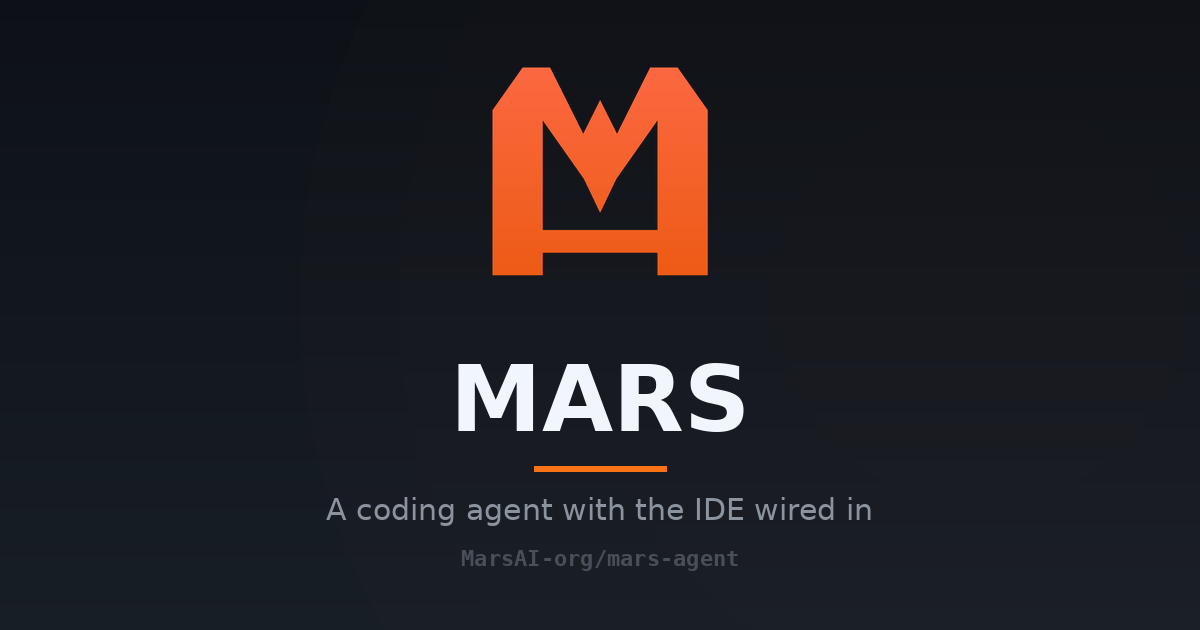
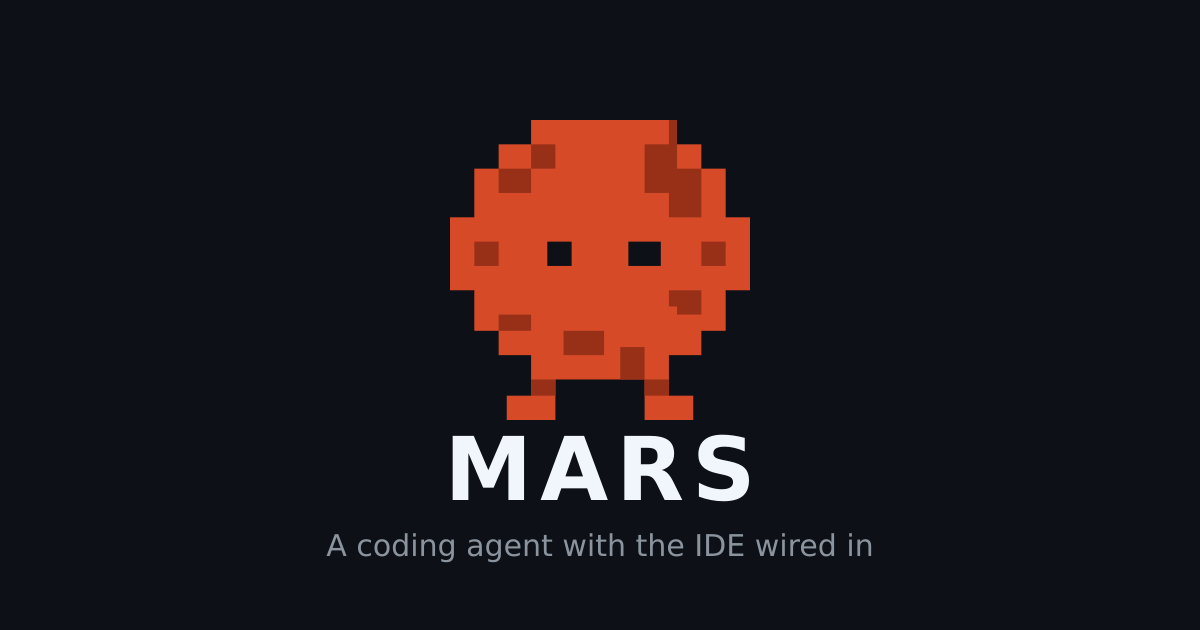
brand: replace the geometric crest with the pixel-art Mars mark (#43)
* brand: replace the geometric crest with the pixel-art Mars mark

The previous mark was a faceted "M" crest. The brand now uses a pixel-art
Mars: a round body with two eyes, legs, and two-tone shading.

- Trace the mark to a 37x37 vector grid so every edge stays axis-aligned and
  derived rasters can be rendered at any size without softening.
- Rebuild the README hero (1200x360) and the social card (1200x630) from the
  same grid, keeping the existing type and tagline.
- Regenerate the collab-web favicon ladder (16-512, .ico with 16/32/48
  entries) and the SVG favicon.
- Redraw the TUI welcome mark as a 12x12 half-block grid so the terminal
  banner matches the asset instead of showing a different silhouette.
- Update the artwork inventory and the TUI tests that pin the mark's rows.

* fix(tui): use a five-row mark on short terminals

The pixel-art mark is six rows tall, one more than the crest it replaced. On a
24-row terminal that extra row pushed the last setup-wizard menu item out of
the frame, which the short-terminal test catches.

Add a 10x10-sampled compact form of the same silhouette and select it below 30
rows, in both the string renderer and the native node tree.

---------

Changed region(s): [[0.2775, 0.0905, 0.74, 0.9048]]

diff --git a/packages/tui/src/setup/wizard-overlay.ts b/packages/tui/src/setup/wizard-overlay.ts
@@ -6,7 +6,7 @@ import { centerLine, padding } from "../utils";
 import { padToWidth } from "../render/utils";
 import { routeSgrMouseInput, type SgrMouseEvent } from "../mouse";
 import { APP_NAME } from "@marsai-org/utils";
-import { gradientLogo, logoNode, MARS_LOGO } from "../prompt/welcome";
+import { gradientLogo, logoNode, MARS_LOGO, MARS_LOGO_COMPACT } from "../prompt/welcome";
 import { theme } from "../theme/theme";
 import { col, node, span, text } from "../native/describe";
 import type { NativeNode, NativeUiEvent } from "../native/node";
@@ -21,6 +21,8 @@ type WizardPhase = "splash" | "transition" | "scene" | "outro" | "done";
 
 const SCENE_MARGIN_X = 4;
 const MIN_CONTENT_WIDTH = 20;
+/** Below this height the wizard switches to the five-row mark so menus keep their last row. */
+const SHORT_TERMINAL_ROWS = 30;
 /** Cross-dissolve duration from the splash into the first scene. */
 const SCENE_TRANSITION_MS = 420;
 
@@ -249,29 +251,33 @@ export class SetupWizardComponent implements Component, OverlayFocusOwner {
 		const title = active?.title ?? scene?.title ?? "Setup";
 		const subtitle = active?.subtitle;
 		const footer = sceneFooterHint();
-		return this.#nativeScene.get([this.#sceneIndex, this.scenes.length, active, title, subtitle, footer], () => {
-			const heading: NativeNode[] = [text([span(title, "strong")])];
-			if (subtitle) heading.push(text([span(subtitle, "muted")]));
-			return col(
-				[
-					col(
-						[
-							logoNode(MARS_LOGO, false),
-							text([span(APP_NAME, "accent strong")], { wrap: "none" }),
-							text([span(`Setup step ${this.#sceneIndex + 1} of ${this.scenes.length}`, "muted")], {
-								wrap: "none",
-							}),
-						],
-						{ align: "center" },
-					),
-					col(heading),
-					// Keyed by scene so a new scene's nodes never reuse the previous one's ids.
-					node("col", { grow: 1 }, active ? [active] : [], `body:${scene?.id ?? this.#sceneIndex}`),
-					col([text([span(footer, "dim")])], { align: "center" }),
-				],
-				{ gap: "md", grow: 1, role: "omp.setup.scene" },
-			);
-		});
+		const rows = Math.max(1, this.ctx.ui.terminal.rows);
+		return this.#nativeScene.get(
+			[this.#sceneIndex, this.scenes.length, active, title, subtitle, footer, rows],
+			() => {
+				const heading: NativeNode[] = [text([span(title, "strong")])];
+				if (subtitle) heading.push(text([span(subtitle, "muted")]));
+				return col(
+					[
+						col(
+							[
+								logoNode(rows < SHORT_TERMINAL_ROWS ? MARS_LOGO_COMPACT : MARS_LOGO, false),
+								text([span(APP_NAME, "accent strong")], { wrap: "none" }),
+								text([span(`Setup step ${this.#sceneIndex + 1} of ${this.scenes.length}`, "muted")], {
+									wrap: "none",
+								}),
+							],
+							{ align: "center" },
+						),
+						col(heading),
+						// Keyed by scene so a new scene's nodes never reuse the previous one's ids.
+						node("col", { grow: 1 }, active ? [active] : [], `body:${scene?.id ?? this.#sceneIndex}`),
+						col([text([span(footer, "dim")])], { align: "center" }),
+					],
+					{ gap: "md", grow: 1, role: "omp.setup.scene" },
+				);
+			},
+		);
 	}
 
 	#renderScene(width: number, height: number): string[] {
@@ -279,7 +285,9 @@ export class SetupWizardComponent implements Component, OverlayFocusOwner {
 		const title = this.#activeScene?.title ?? scene?.title ?? "Setup";
 		const subtitle = this.#activeScene?.subtitle;
 		const contentWidth = Math.max(MIN_CONTENT_WIDTH, width - SCENE_MARGIN_X * 2);
-		const logo = gradientLogo(MARS_LOGO, 0);
+		// Short terminals cannot afford the sixth mark row: it would push one menu
+		// item out of the frame. Use the compact mark there.
+		const logo = gradientLogo(height < SHORT_TERMINAL_ROWS ? MARS_LOGO_COMPACT : MARS_LOGO, 0);
 		const header = [
 			"",
 			...logo.map(line => centerLine(line, width)),

diff --git a/packages/tui/test/welcome.test.ts b/packages/tui/test/welcome.test.ts
@@ -86,8 +86,11 @@ describe("WelcomeComponent", () => {
 		const indent = (row: string) => visibleWidth(row) - visibleWidth(row.trimStart());
 		const expectCentered = (left: number, right: number) => expect(Math.abs(left - right)).toBeLessThanOrEqual(1);
 
-		// The lockup is one block: the mark's top row starts it, the wordmark row ends it.
-		const bar = rows.find(row => row.includes("▄███    ███▄")) ?? "";
+		// The lockup is one block: the mark's widest row starts it, the wordmark row ends it.
+		// Measure the block's left edge from a row that begins at column 0 of the mark;
+		// the top row is narrower and carries its own padding, so its first glyph is not
+		// the block edge.
+		const bar = rows.find(row => row.includes("████▀██▀▀███")) ?? "";
 		const word = rows.find(row => row.includes("█▄█ ▄▀▄ █▀▄ ▄▀▀")) ?? "";
 		expectCentered(indent(bar), columns - visibleWidth(word));
 
@@ -111,11 +114,11 @@ describe("WelcomeComponent", () => {
 		const fits = rows(33);
 		const word = fits.find(row => row.includes("█▄█ ▄▀▄ █▀▄ ▄▀▀"));
 		const version = fits.find(row => row.includes("v1.0.0"));
-		expect(fits.some(row => row.includes("▄███    ███▄"))).toBe(true);
+		expect(fits.some(row => row.includes("  ▄██████▄  "))).toBe(true);
 		expect(version?.indexOf("v1.0.0")).toBe(word?.indexOf("█▄█ ▄▀▄ █▀▄ ▄▀▀"));
 
 		const narrow = rows(32).join("\n");
-		expect(narrow).toContain("▄███    ███▄");
+		expect(narrow).toContain("  ▄██████▄  ");
 		expect(narrow).not.toContain("█▄█ ▄▀▄ █▀▄ ▄▀▀");
 		expect(narrow).not.toContain("v1.0.0");
 	});

diff --git a/packages/tui/src/prompt/welcome.ts b/packages/tui/src/prompt/welcome.ts
@@ -409,11 +409,25 @@ export class WelcomeComponent implements Component {
 }
 
 /**
- * Block-grid Mars mark shared by the welcome and setup surfaces: the `M` from
- * `assets/mars-logo.svg` — two legs, the central valley, and the crossbar —
- * reduced to a 12×10 half-block grid.
+ * Block-grid Mars mark shared by the welcome and setup surfaces: the pixel-art
+ * mark from `assets/mars-logo.svg` — the round body, two eyes, and the legs —
+ * reduced to a 12×12 half-block grid.
  */
-export const MARS_LOGO = ["▄███    ███▄", "███▀████▀███", "███ ▀██▀ ███", "███      ███", "███▀▀▀▀▀▀███"];
+export const MARS_LOGO = [
+	"  ▄██████▄  ",
+	" ██████████ ",
+	"████▀██▀▀███",
+	"▀██████████▀",
+	" ▀████████▀ ",
+	"  ▄█▀▀▀▀█▄  ",
+];
+
+/**
+ * Five-row form of {@link MARS_LOGO} for short terminals, where the extra row
+ * would push a menu item out of the frame. Same 12-column silhouette, sampled
+ * from a 10×10 grid instead of 12×12.
+ */
+export const MARS_LOGO_COMPACT = ["  ▄█████▄ ", "▄████████▄", "██████▄███", " ▀███████ ", "  ▄█▀▀▀█  "];
 
 /** Columns of {@link MARS_LOGO}. */
 const LOGO_WIDTH = Math.max(...MARS_LOGO.map(row => row.length));

diff --git a/packages/tui/test/welcome-brand.test.ts b/packages/tui/test/welcome-brand.test.ts
@@ -58,7 +58,14 @@ describe("welcome brand artwork", () => {
 
 	it("draws the Mars mark from the logo asset's silhouette", async () => {
 		await initTheme(false);
-		expect(MARS_LOGO).toEqual(["▄███    ███▄", "███▀████▀███", "███ ▀██▀ ███", "███      ███", "███▀▀▀▀▀▀███"]);
+		expect(MARS_LOGO).toEqual([
+			"  ▄██████▄  ",
+			" ██████████ ",
+			"████▀██▀▀███",
+			"▀██████████▀",
+			" ▀████████▀ ",
+			"  ▄█▀▀▀▀█▄  ",
+		]);
 		expect(
 			new WelcomeComponent("1.0.0")
 				.render(32)

diff --git a/ASSETS_TODO.md b/ASSETS_TODO.md
@@ -4,8 +4,9 @@ Brand artwork deliverable: **`Mars`** (CLI `mars`, npm `@marsai-org`,
 GitHub `MarsAI-org/mars-agent`).
 
 **Final artwork delivered:** The placeholders have been replaced with the Mars
-brand mark suite (faceted geometric "M" crest with IDE bridge in `#ea580c` to
-`#ff6b4a` on `#0d1117`). Branch `design/mars-brand-mark` tracks the deliverables.
+brand mark suite: a pixel-art mark (round body, two eyes, and legs, in `#d64a28`
+with `#983018` shading on `#0d1117`), traced to a 37×37 vector grid so every
+derived raster stays crisp.
 
 ---
 
@@ -13,9 +14,10 @@ brand mark suite (faceted geometric "M" crest with IDE bridge in `#ea580c` to
 
 | File | Format | Replaced with | Status |
 | --- | --- | --- | --- |
-| `assets/mars-logo.png` | PNG, 1200×360, dark palette | Mars README hero banner (emblem + MARS wordmark + tagline) | **Replaced** |
-| `assets/mars-logo.svg` | SVG, viewBox `0 0 240 240` | Master Mars vector mark (faceted "M" crest, gradient fill) | **Replaced** |
-| `assets/icon.svg` | SVG, viewBox `0 0 240 240` | Mars dark app tile mark (replaces legacy Pi symbol) | **Replaced** |
+| `assets/mars-logo.png` | PNG, 1200×360, dark palette | Mars README hero banner (pixel mark + MARS wordmark + tagline) | **Replaced** |
+| `assets/mars-logo.svg` | SVG, viewBox `0 0 37 37` | Master Mars vector mark (pixel-art body, eyes, and legs, two-tone fill) | **Replaced** |
+| `assets/mars-mark.png` | PNG, 1024×1024, transparent | Square mark for avatars and social previews | **Replaced** |
+| `assets/icon.svg` | SVG, viewBox `0 0 37 37` | Mars app tile mark (replaces legacy Pi symbol) | **Replaced** |
 | `packages/collab-web/public/*` | Multi-format ladder | Full favicon ladder (16–512px, .ico, .svg) + 1200×630 `og-image.png` | **Replaced** |
 
 Why these two extensions and no third:
@@ -53,12 +55,12 @@ Why these two extensions and no third:
   exists as the named master asset for the brand mark.
 - Consumer: docs, this placeholder slot, and the source for every derived
   raster in §2.3–§2.6 once one designer owns it.
-- Required size: 120×120 minimum viewBox, rectangular mark preferred so the
-  square favicon set can crop/scale without re-drawing. Vector required.
-- Required format: SVG (the current file is a placeholder with a 240×240
-  viewBox).
+- Required format: SVG. The mark is a 37×37 pixel-art grid, so every edge is
+  axis-aligned and the file stays a small set of unit rectangles.
 - Expectation: works at 16 px and at 240 px; survives a monochrome one-color
   reproduction (terminal, footer, small favicon) without losing the shape.
+  Render derived rasters with nearest-neighbour scaling so the pixel edges stay
+  crisp.
 
 ### 2.3 `assets/mars-logo.svg` → GitHub social preview
 
